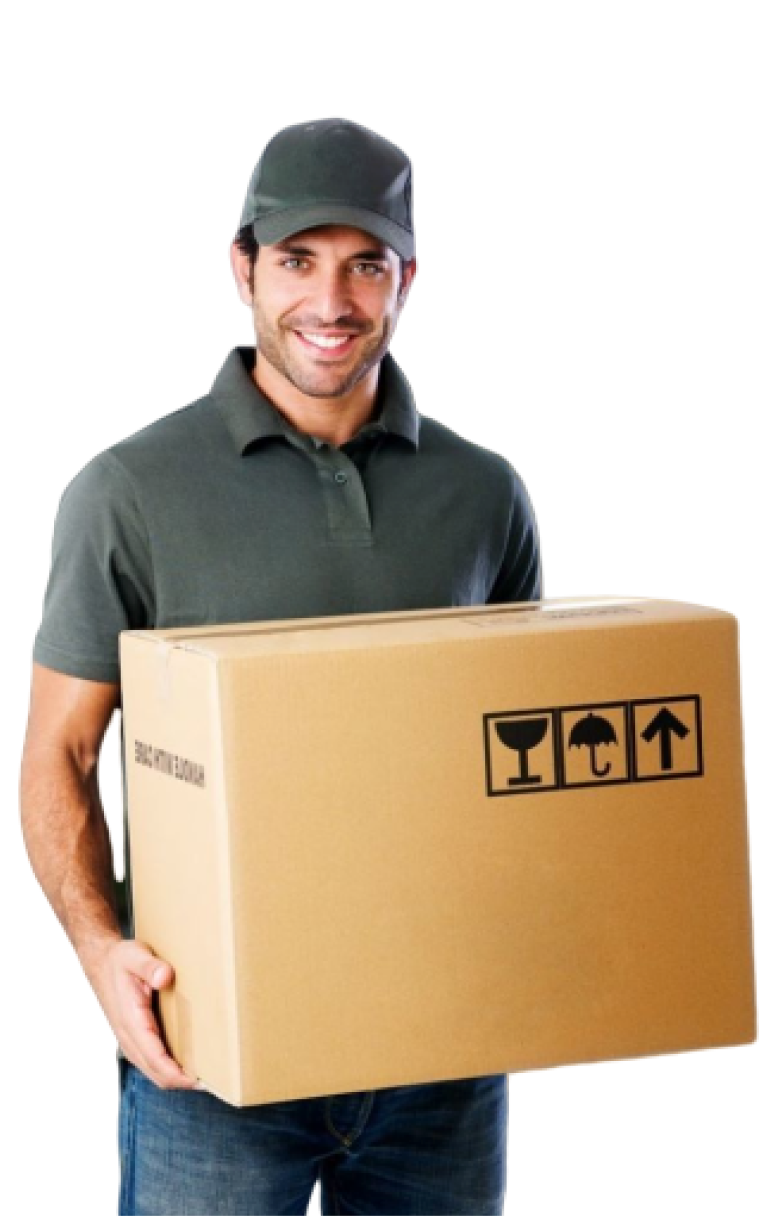
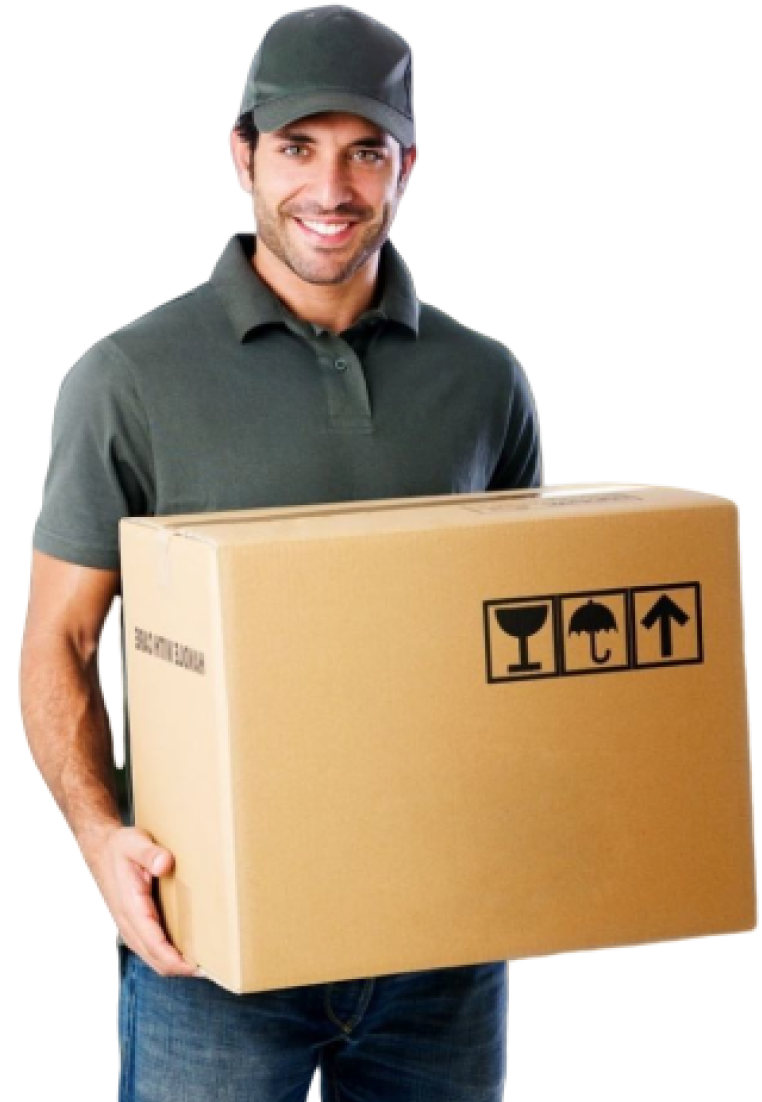
Fix some styles

Changed region(s): [[0.0, 0.0, 0.9961, 0.9564]]

diff --git a/styles/main.css b/styles/main.css
@@ -1,7 +1,14 @@
 
+body{
+    margin: 0;
+    font-family: 'Montserrat', sans-serif;
+    color: #333333;
+}
+
 .header-block{
     display: flex;
     justify-content: center;
+    flex-wrap: wrap-reverse;
     margin: 0 auto;
     max-width: 120rem;
     max-height: 40.625rem;
@@ -9,6 +16,8 @@
 }
 
 .header-block-container{
+    width: 100%;
+    height: auto;
     margin: 2.5rem 12rem 0 19.2rem;
     max-width: 98rem;
     max-height: 40.625rem;
@@ -19,27 +28,29 @@
 .header-top{
     display: flex;
     justify-content: space-between;
+    height: 2rem;
 }
 
 .header-top-tagline{
     width: 100%;
     max-width: 6rem;
     height: auto;
+    padding-bottom: 0.12px;
     font-size: 1.8rem;
     line-height: 2rem;
     font-weight: 600;
-    font-family: 'Montserrat', sans-serif;
-    color: #333333;
+    transition: all 0.5s;
 }
 
 .header-top-tagline span:hover{
 
-    border-bottom: 2px solid steelblue;
+    border-bottom: 0.12px solid steelblue;
 }
-
 
 .header-menu{
 
+    margin-left: 13rem;
+    height: 100%;
 }
 
 .header-menu-list{
@@ -50,18 +61,16 @@
 
 .header-menu-list-item{
     list-style-type: none;
-    padding: 0 1.2rem;
+    padding: 0 1.2rem 0.13rem 1.2rem;
     font-size: 1.2rem;
-    line-height: 1.5rem;
     font-weight: 400;
-    font-family: 'Montserrat', sans-serif;
-    color: #333333;
+    transition: all 0.5s;
 }
 
 
 .header-menu-list-item:hover{
     cursor: pointer;
-    border-bottom: 2px solid steelblue;
+    border-bottom: 0.12px solid steelblue;
 }
 
 
@@ -72,7 +81,6 @@
     margin-right: 4rem;
     font-size: 1.4rem;
     font-weight: 500;
-    font-family: 'Montserrat', sans-serif;
     line-height: 1.8rem;
 }
 
@@ -84,25 +92,21 @@
 }
 
 .header-center {
-    height: auto;
+    margin: 3rem 0 1rem 0;
     min-height: 18.5rem;
 }
 
 .header-center h1{
-    margin: 2rem 0 1rem 0;
+    margin: 0;
     font-size: 4.8rem;
-    font-family: 'Montserrat', sans-serif;
     font-weight: 700;
     line-height: 5.3rem;
-
-    color: #333333;
 }
 
 .header-center p{
     padding: 0;
     margin: 0;
     font-size: 1.8rem;
-    font-family: 'Montserrat', sans-serif;
     font-weight: 600;
     line-height: 2.2rem;
 
@@ -122,12 +126,12 @@
     height: 3.7rem;
     background: #FF352B;
     color: #F2F2F2;
-    font-family: 'Montserrat', sans-serif;
     font-weight: 600;
     border: none;
     opacity: .99;
     z-index: 5;
 }
+
 
 .header-center-fake-btn{
     position: absolute;
@@ -145,9 +149,7 @@
     display: flex;
     position: relative;
     margin-top: 1.8rem;
-    /*width: auto;*/
-    /*height: 100%;*/
-    max-height: 15rem;
+    max-height: 13rem;
 }
 
 .header-bottom-list{
@@ -176,14 +178,14 @@
     padding: 0 0.5rem;
     line-height: 1.2rem;
     font-size: 1rem;
-    font-family: 'Montserrat', sans-serif;
     font-weight: 400;
 
 }
 
 .header-bottom-men-img{
-    margin-top: -25.2rem;
-    width: 23.5rem;
+    align-self: flex-end;
+    height: 35rem;
+    width: 24.5rem;
     background-size: contain;
     background-repeat: no-repeat;
     background-image: url("/img/DeliveryMen.png");
@@ -191,8 +193,9 @@
 }
 
 .header-bottom-car-img{
-    margin-top: -16.06rem;
+    align-self: flex-end;
     margin-left: -6rem;
+    height: 28rem;
     width: 30rem;
     background-size: contain;
     background-repeat: no-repeat;
@@ -205,7 +208,7 @@
     display: flex;
     position: absolute;
     top: 1.8rem;
-    right: 7rem;
+    right: 11rem;
     width: 8.2rem;
     height: 8.2rem;
     border-radius: 50%;

diff --git a/index.html b/index.html
@@ -18,7 +18,7 @@
             <div class="header-top">
 
                 <div class="header-top-tagline"> <span>MOVEE</span></div>
-                <div class="header-menu">
+                <nav class="header-menu">
                     <ul class="header-menu-list">
                         <li class="header-menu-list-item">Цены</li>
                         <li class="header-menu-list-item">Автопарк</li>
@@ -26,7 +26,7 @@
                         <li class="header-menu-list-item">Контакты</li>
                     </ul>
 
-                </div>
+                </nav>
 
                 <div class="header-top-link">
                     <a class="header-top-link-phone" href="tel:+80299991213">8(029) 999-12-13</a>
